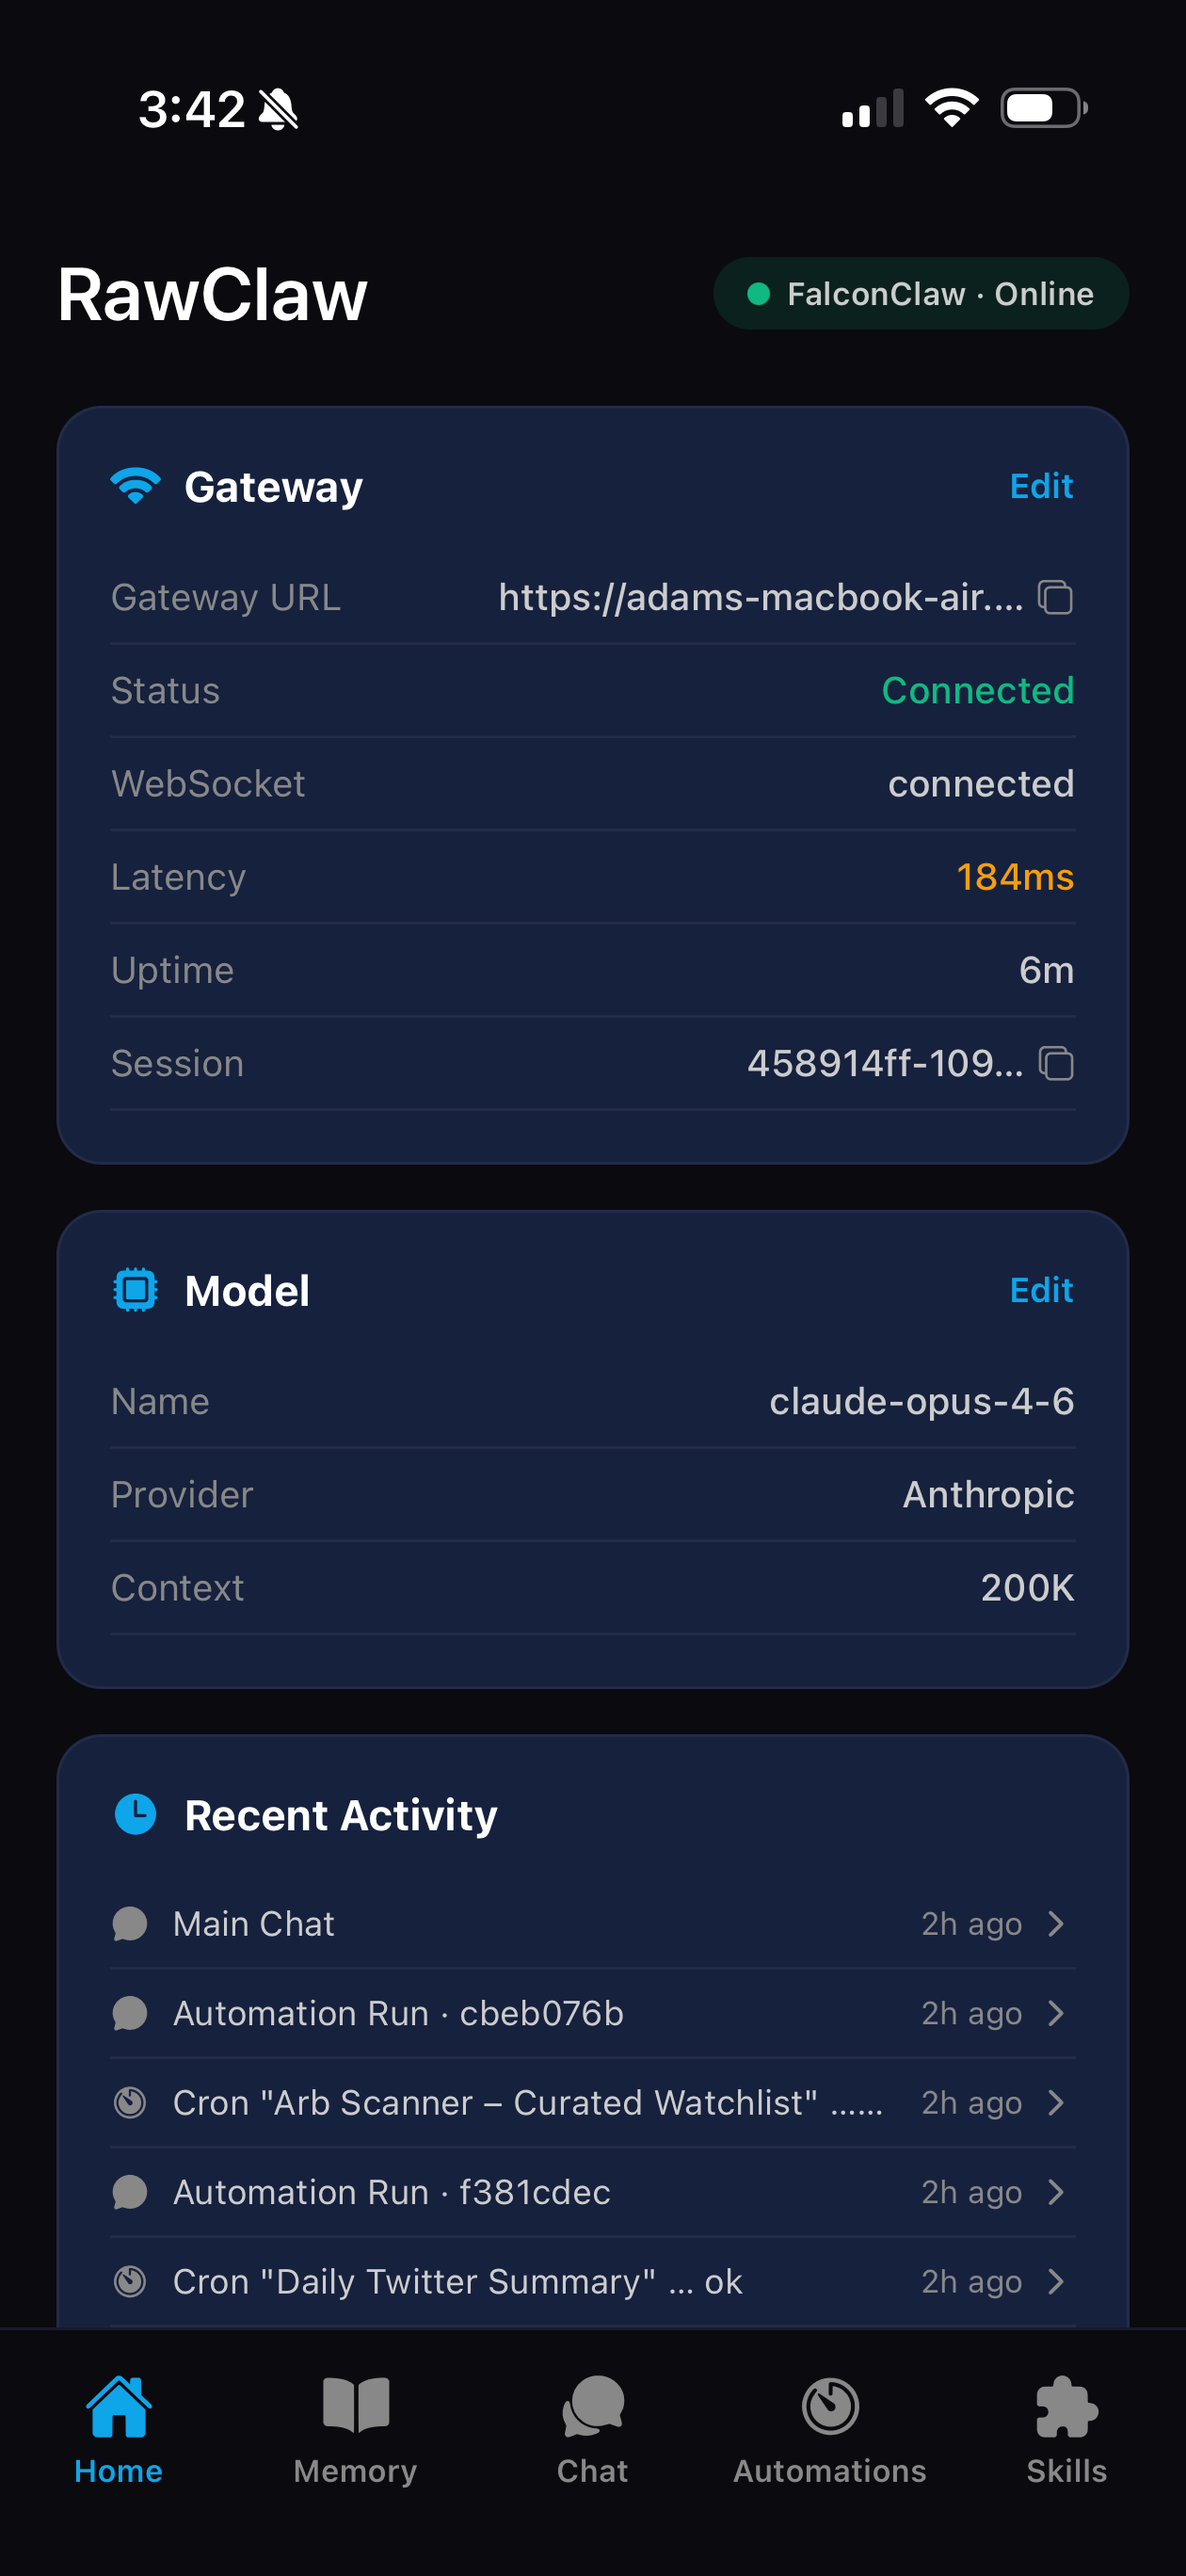
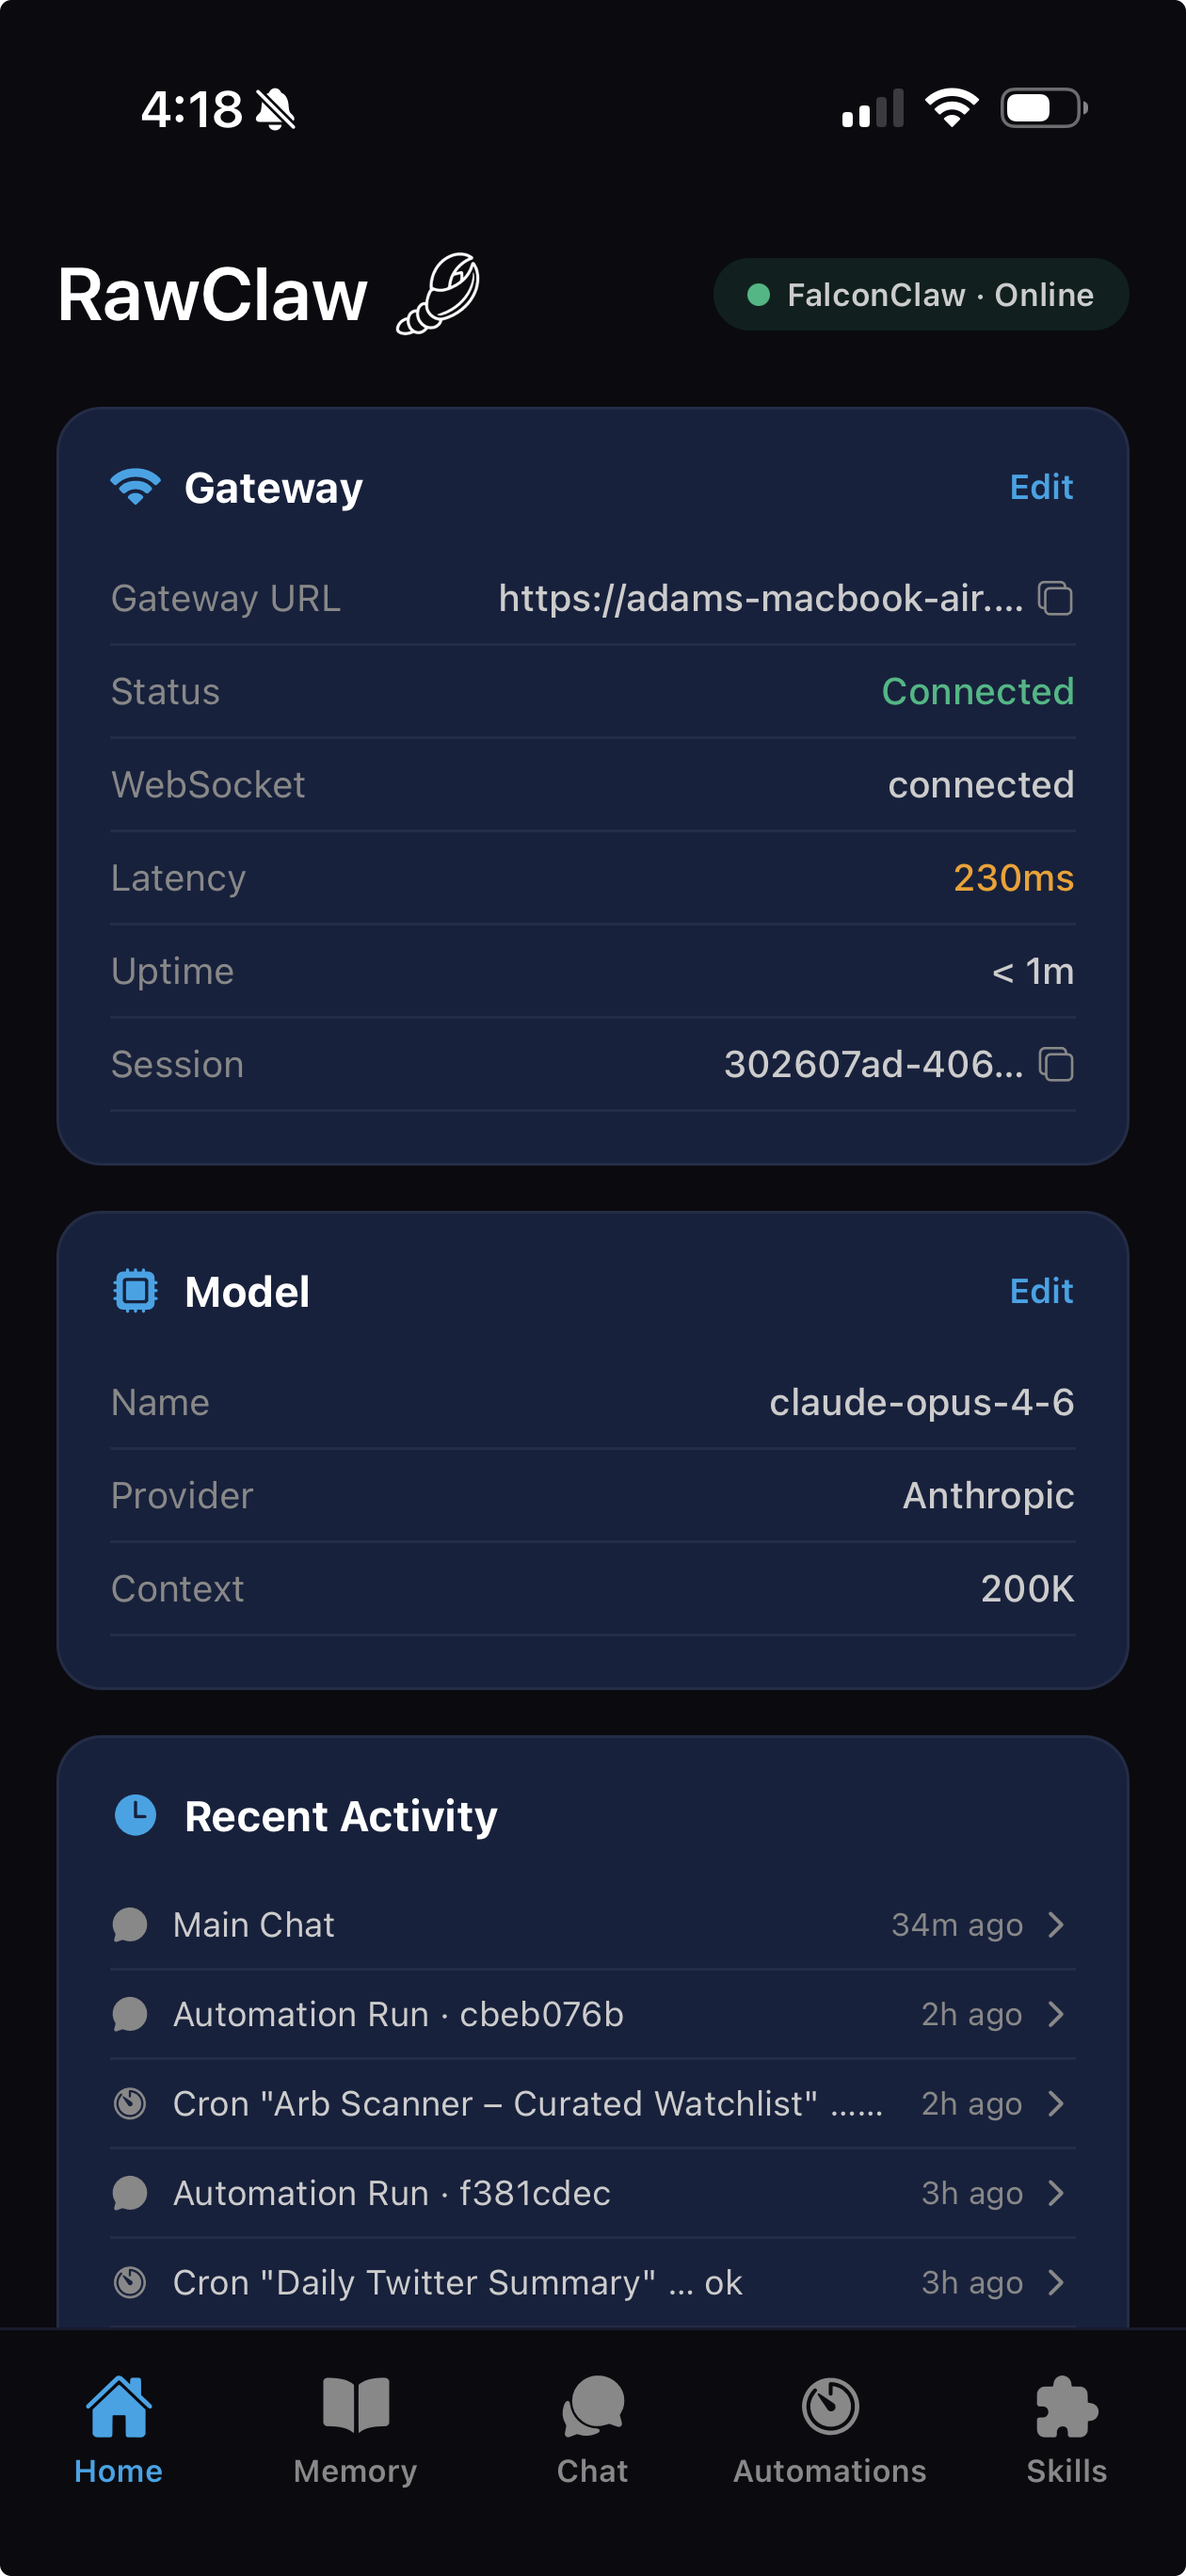
updated screenshots.

diff --git a/src/components/ScreenHeader.tsx b/src/components/ScreenHeader.tsx
@@ -4,26 +4,30 @@ import { useTheme } from '../theme';
 
 interface ScreenHeaderProps {
   title: string;
+  leftElement?: React.ReactNode;
   rightElement?: React.ReactNode;
 }
 
-export const ScreenHeader: React.FC<ScreenHeaderProps> = ({ title, rightElement }) => {
+export const ScreenHeader: React.FC<ScreenHeaderProps> = ({ title, leftElement, rightElement }) => {
   const { colors, spacing, typography } = useTheme();
 
   return (
     <View style={[styles.container, { marginBottom: spacing.xl }]}>
-      <Text
-        style={[
-          styles.title,
-          {
-            color: colors.text,
-            fontSize: typography.title.fontSize,
-            fontWeight: typography.title.fontWeight,
-          },
-        ]}
-      >
-        {title}
-      </Text>
+      <View style={styles.titleRow}>
+        <Text
+          style={[
+            styles.title,
+            {
+              color: colors.text,
+              fontSize: typography.title.fontSize,
+              fontWeight: typography.title.fontWeight,
+            },
+          ]}
+        >
+          {title}
+        </Text>
+        {leftElement}
+      </View>
       {rightElement && <View>{rightElement}</View>}
     </View>
   );
@@ -36,5 +40,10 @@ const styles = StyleSheet.create({
     alignItems: 'center',
   },
   title: {},
+  titleRow: {
+    flexDirection: 'row',
+    alignItems: 'center',
+    gap: 8,
+  },
 });
 

diff --git a/app/(tabs)/index.tsx b/app/(tabs)/index.tsx
@@ -1,5 +1,5 @@
 import { useState, useCallback, useMemo, useEffect, useRef } from 'react';
-import { View, Text, TextInput, Pressable, ScrollView, StyleSheet, RefreshControl, Alert, ActivityIndicator } from 'react-native';
+import { View, Text, TextInput, Pressable, ScrollView, StyleSheet, RefreshControl, Alert, ActivityIndicator, Image } from 'react-native';
 import { SafeAreaView } from 'react-native-safe-area-context';
 import { useRouter } from 'expo-router';
 import { Ionicons } from '@expo/vector-icons';
@@ -297,6 +297,14 @@ export default function Home() {
         {/* Header */}
         <ScreenHeader
           title="RawClaw"
+          leftElement={
+            <Image
+              source={require('../../assets/claw_icon.png')}
+              style={styles.logo}
+              resizeMode="contain"
+              accessibilityLabel="RawClaw logo"
+            />
+          }
           rightElement={
             <StatusPill
               state={pillState}
@@ -739,6 +747,10 @@ export default function Home() {
 const styles = StyleSheet.create({
   safe: { flex: 1 },
   scroll: {},
+  logo: {
+    width: 32,
+    height: 32,
+  },
   editLabel: {
     textTransform: 'uppercase',
     letterSpacing: 1,
